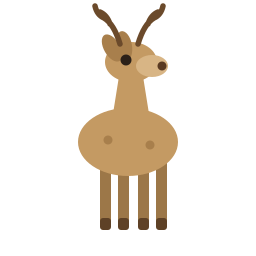
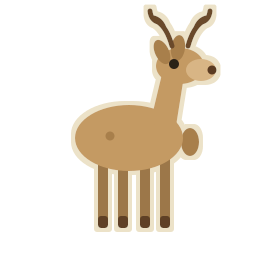
redesign: 米宝对齐参考图姿势（侧走熊猫/雪豹、坐姿水獭、立姿鹿）+ 木质浅描边

Changed region(s): [[0.25, 0.0, 0.875, 0.9062], [0.5625, 0.5312, 0.625, 0.5938], [0.4062, 0.5, 0.4375, 0.5625]]

diff --git a/tools/gen_meeples.js b/tools/gen_meeples.js
@@ -1,5 +1,7 @@
-// Generate 4 cartoon-animal meeple PNGs (transparent bg) from SVG via sharp.
-// Each animal gets a DISTINCT silhouette so they read clearly, not as teddy bears.
+// Generate 4 wooden-style cartoon-animal meeple PNGs (transparent bg) from SVG via sharp.
+// Poses match the user's reference photo: panda & snow-leopard side-walking,
+// otter upright-sitting, deer thin-legged standing. A thin wood-tone rim evokes
+// the laser-cut plywood edge of real board-game meeples.
 const sharp = require("sharp");
 const fs = require("fs");
 const path = require("path");
@@ -7,123 +9,143 @@ const path = require("path");
 const OUT = path.resolve("web/assets");
 const S = 256;
 
+// Thin cream plywood rim via dilation of the alpha channel -> clean outer outline only.
+const RIM = `<filter id="rim" x="-25%" y="-25%" width="150%" height="150%">
+  <feMorphology in="SourceAlpha" operator="dilate" radius="4" result="d"/>
+  <feFlood flood-color="#ECE2C8" result="c"/>
+  <feComposite in="c" in2="d" operator="in" result="r"/>
+  <feMerge><feMergeNode in="r"/><feMergeNode in="SourceGraphic"/></feMerge>
+</filter>`;
+
 function svg(inner) {
   return `<svg xmlns="http://www.w3.org/2000/svg" width="${S}" height="${S}" viewBox="0 0 256 256">
-    <g>${inner}</g></svg>`;
+    <defs>${RIM}</defs>
+    <g filter="url(#rim)">${inner}</g></svg>`;
 }
 
 const animals = {
-  // ===================== PANDA (chunky, unmistakable b/w) =====================
+  // ===================== PANDA — side-walking, b/w =====================
   panda: svg(`
-    <ellipse cx="100" cy="214" rx="22" ry="26" fill="#F4F3EE"/>
-    <ellipse cx="156" cy="214" rx="22" ry="26" fill="#F4F3EE"/>
-    <ellipse cx="128" cy="168" rx="60" ry="64" fill="#F4F3EE"/>
-    <ellipse cx="64" cy="158" rx="18" ry="42" fill="#F4F3EE" transform="rotate(18 64 158)"/>
-    <ellipse cx="192" cy="158" rx="18" ry="42" fill="#F4F3EE" transform="rotate(-18 192 158)"/>
-    <circle cx="128" cy="82" r="52" fill="#F4F3EE"/>
-    <circle cx="92" cy="42" r="20" fill="#2B2B2B"/>
-    <circle cx="164" cy="42" r="20" fill="#2B2B2B"/>
-    <ellipse cx="110" cy="84" rx="17" ry="20" fill="#2B2B2B" transform="rotate(-12 110 84)"/>
-    <ellipse cx="146" cy="84" rx="17" ry="20" fill="#2B2B2B" transform="rotate(12 146 84)"/>
-    <circle cx="110" cy="84" r="6" fill="#fff"/>
-    <circle cx="146" cy="84" r="6" fill="#fff"/>
-    <circle cx="110" cy="85" r="3.2" fill="#23201C"/>
-    <circle cx="146" cy="85" r="3.2" fill="#23201C"/>
-    <ellipse cx="128" cy="104" rx="9" ry="6.5" fill="#2B2B2B"/>
-    <path d="M128 110 q-10 12 -20 4 M128 110 q10 12 20 4" stroke="#2B2B2B" stroke-width="3" fill="none" stroke-linecap="round"/>
+    <!-- tail -->
+    <ellipse cx="200" cy="152" rx="15" ry="11" fill="#2B2B2B"/>
+    <!-- far back legs -->
+    <rect x="150" y="176" width="19" height="54" rx="9" fill="#1F1F1F"/>
+    <rect x="170" y="180" width="17" height="50" rx="8" fill="#1F1F1F"/>
+    <!-- body -->
+    <ellipse cx="128" cy="150" rx="68" ry="47" fill="#F4F3EE"/>
+    <!-- black shoulder saddle -->
+    <ellipse cx="142" cy="120" rx="54" ry="24" fill="#2B2B2B" transform="rotate(-8 142 120)"/>
+    <!-- near front legs -->
+    <rect x="84" y="178" width="20" height="54" rx="10" fill="#2B2B2B"/>
+    <rect x="104" y="182" width="17" height="50" rx="8" fill="#2B2B2B"/>
+    <!-- head -->
+    <circle cx="60" cy="118" r="45" fill="#F4F3EE"/>
+    <!-- ears -->
+    <circle cx="40" cy="80" r="17" fill="#2B2B2B"/>
+    <circle cx="80" cy="74" r="17" fill="#2B2B2B"/>
+    <!-- eye patch -->
+    <ellipse cx="54" cy="120" rx="16" ry="20" fill="#2B2B2B" transform="rotate(-10 54 120)"/>
+    <circle cx="54" cy="118" r="7" fill="#fff"/>
+    <circle cx="54" cy="119" r="3.6" fill="#23201C"/>
+    <!-- snout + nose -->
+    <ellipse cx="26" cy="128" rx="12" ry="9" fill="#F4F3EE"/>
+    <ellipse cx="18" cy="126" rx="6" ry="5" fill="#2B2B2B"/>
+    <path d="M18 131 q0 8 8 8" stroke="#2B2B2B" stroke-width="3" fill="none" stroke-linecap="round"/>
   `),
 
-  // ===================== MUSK DEER (standing deer: antlers + neck + thin legs) =====================
+  // ===================== MUSK DEER — standing, thin legs, antlers =====================
   musk: svg(`
     <!-- thin legs -->
-    <rect x="100" y="150" width="11" height="78" rx="5" fill="#9C7748"/>
-    <rect x="118" y="150" width="11" height="78" rx="5" fill="#9C7748"/>
-    <rect x="138" y="150" width="11" height="78" rx="5" fill="#9C7748"/>
-    <rect x="156" y="150" width="11" height="78" rx="5" fill="#9C7748"/>
-    <!-- hooves -->
-    <rect x="100" y="218" width="11" height="12" rx="3" fill="#5E4126"/>
-    <rect x="118" y="218" width="11" height="12" rx="3" fill="#5E4126"/>
-    <rect x="138" y="218" width="11" height="12" rx="3" fill="#5E4126"/>
-    <rect x="156" y="218" width="11" height="12" rx="3" fill="#5E4126"/>
+    <rect x="98" y="150" width="10" height="76" rx="5" fill="#9C7748"/>
+    <rect x="118" y="150" width="10" height="76" rx="5" fill="#9C7748"/>
+    <rect x="140" y="150" width="10" height="76" rx="5" fill="#9C7748"/>
+    <rect x="160" y="150" width="10" height="76" rx="5" fill="#9C7748"/>
+    <rect x="98" y="216" width="10" height="12" rx="3" fill="#5E4126"/>
+    <rect x="118" y="216" width="10" height="12" rx="3" fill="#5E4126"/>
+    <rect x="140" y="216" width="10" height="12" rx="3" fill="#5E4126"/>
+    <rect x="160" y="216" width="10" height="12" rx="3" fill="#5E4126"/>
+    <!-- tail -->
+    <ellipse cx="190" cy="142" rx="9" ry="14" fill="#A87F4C"/>
     <!-- body -->
-    <ellipse cx="128" cy="142" rx="50" ry="34" fill="#C49A63"/>
+    <ellipse cx="129" cy="138" rx="54" ry="33" fill="#C49A63"/>
     <!-- neck -->
-    <path d="M112 120 L120 70 L142 70 L150 120 Z" fill="#C49A63"/>
+    <path d="M150 124 L162 74 L184 76 L176 126 Z" fill="#C49A63"/>
     <!-- head + snout -->
-    <ellipse cx="131" cy="62" rx="26" ry="20" fill="#C49A63"/>
-    <ellipse cx="152" cy="66" rx="16" ry="11" fill="#D8B585"/>
+    <ellipse cx="180" cy="66" rx="24" ry="18" fill="#C49A63"/>
+    <ellipse cx="201" cy="70" rx="15" ry="11" fill="#D8B585"/>
     <!-- ears -->
-    <ellipse cx="112" cy="48" rx="8" ry="15" fill="#A87F4C" transform="rotate(-30 112 48)"/>
-    <ellipse cx="124" cy="46" rx="8" ry="15" fill="#A87F4C" transform="rotate(-10 124 46)"/>
+    <ellipse cx="162" cy="52" rx="7" ry="13" fill="#A87F4C" transform="rotate(-25 162 52)"/>
+    <ellipse cx="178" cy="48" rx="7" ry="13" fill="#A87F4C" transform="rotate(8 178 48)"/>
     <!-- antlers -->
-    <path d="M120 44 q-6 -20 -16 -26 M104 18 q-7 -3 -9 -12 M110 24 q-3 -9 -10 -12
-             M138 44 q6 -20 16 -26 M154 18 q7 -3 9 -12 M148 24 q3 -9 10 -12"
-          stroke="#6B4A2B" stroke-width="5.5" fill="none" stroke-linecap="round"/>
+    <path d="M172 46 q-5 -18 -14 -24 M158 22 q-7 -2 -8 -11 M164 28 q-3 -8 -10 -10
+             M188 46 q5 -18 14 -24 M202 22 q7 -2 8 -11 M196 28 q3 -8 10 -10"
+          stroke="#6B4A2B" stroke-width="5" fill="none" stroke-linecap="round"/>
     <!-- eye + nose -->
-    <circle cx="126" cy="60" r="5.5" fill="#2B2018"/>
-    <circle cx="162" cy="66" r="4.5" fill="#5A3A22"/>
-    <!-- flank spots -->
-    <circle cx="108" cy="140" r="4.5" fill="#A87F4C"/>
-    <circle cx="150" cy="145" r="4.5" fill="#A87F4C"/>
+    <circle cx="174" cy="64" r="5" fill="#2B2018"/>
+    <circle cx="212" cy="70" r="4.5" fill="#5A3A22"/>
+    <!-- flank spot -->
+    <circle cx="110" cy="136" r="4.5" fill="#A87F4C"/>
   `),
 
-  // ===================== SNOW LEOPARD (cat: pointed ears + long curling tail + rosettes) =====================
+  // ===================== SNOW LEOPARD — side-walking, long curled tail up, spots =====================
   snow: svg(`
-    <!-- long curling tail (signature) -->
-    <path d="M70 175 q-46 6 -42 -42 q4 -34 40 -28 q26 4 18 30 q-6 18 -22 12 q-12 -4 -6 -16"
-          fill="none" stroke="#E2E6EA" stroke-width="20" stroke-linecap="round"/>
-    <path d="M50 120 q-8 4 -6 14 M58 135 q-9 2 -10 12 M44 150 q-4 6 4 12"
-          stroke="#7A8590" stroke-width="3" fill="none"/>
+    <!-- long curling tail (signature), raised at back -->
+    <path d="M188 168 q52 -8 46 -56 q-4 -34 -40 -26 q-26 6 -16 32 q8 18 26 10 q12 -6 4 -18"
+          fill="none" stroke="#CDC6DA" stroke-width="22" stroke-linecap="round"/>
+    <path d="M214 96 q6 6 2 16 M206 120 q9 1 11 11 M196 140 q9 -1 12 9"
+          stroke="#7A7088" stroke-width="3" fill="none"/>
+    <!-- far legs -->
+    <rect x="150" y="178" width="18" height="52" rx="8" fill="#B7AFC8"/>
+    <rect x="168" y="182" width="16" height="48" rx="8" fill="#B7AFC8"/>
     <!-- body -->
-    <ellipse cx="132" cy="170" rx="56" ry="58" fill="#E2E6EA"/>
-    <!-- front paws -->
-    <ellipse cx="108" cy="216" rx="16" ry="14" fill="#E2E6EA"/>
-    <ellipse cx="156" cy="216" rx="16" ry="14" fill="#E2E6EA"/>
+    <ellipse cx="126" cy="150" rx="64" ry="46" fill="#CDC6DA"/>
+    <!-- near legs -->
+    <rect x="78" y="180" width="19" height="52" rx="9" fill="#B7AFC8"/>
+    <rect x="98" y="184" width="16" height="48" rx="8" fill="#B7AFC8"/>
     <!-- head -->
-    <circle cx="132" cy="86" r="46" fill="#E2E6EA"/>
+    <circle cx="54" cy="120" r="44" fill="#CDC6DA"/>
     <!-- pointed ears -->
-    <path d="M98 56 L92 24 L120 44 Z" fill="#CBD2D8"/>
-    <path d="M166 56 L172 24 L144 44 Z" fill="#CBD2D8"/>
-    <!-- eyes -->
-    <circle cx="116" cy="86" r="6.5" fill="#23201C"/>
-    <circle cx="148" cy="86" r="6.5" fill="#23201C"/>
+    <path d="M30 92 L24 58 L54 80 Z" fill="#B3ABBF"/>
+    <path d="M78 92 L84 58 L54 80 Z" fill="#B3ABBF"/>
+    <!-- eye -->
+    <ellipse cx="50" cy="120" rx="8" ry="9" fill="#3A3448"/>
+    <circle cx="50" cy="119" r="3.2" fill="#0E0B14"/>
     <!-- muzzle -->
-    <ellipse cx="132" cy="106" rx="18" ry="13" fill="#F4F6F8"/>
-    <path d="M126 104 l6 6 l6 -6" stroke="#5A6470" stroke-width="3" fill="none" stroke-linecap="round" stroke-linejoin="round"/>
-    <ellipse cx="132" cy="110" rx="5" ry="3.5" fill="#5A6470"/>
+    <ellipse cx="22" cy="130" rx="14" ry="10" fill="#EAE6F0"/>
+    <ellipse cx="14" cy="128" rx="5" ry="4" fill="#6E6478"/>
     <!-- rosette spots -->
-    ${[[92,150],[150,150],[110,185],[156,188],[132,168],[100,200],[160,202]]
-      .map(([x,y])=>`<circle cx="${x}" cy="${y}" r="7" fill="none" stroke="#7A8590" stroke-width="3.2"/>
-        <circle cx="${x}" cy="${y}" r="2" fill="#7A8590"/>`).join("")}
+    ${[[100,140],[150,142],[118,176],[158,178],[134,158],[104,190],[160,192]]
+      .map(([x,y])=>`<circle cx="${x}" cy="${y}" r="7" fill="none" stroke="#7A7088" stroke-width="3"/>
+        <circle cx="${x}" cy="${y}" r="2" fill="#7A7088"/>`).join("")}
   `),
 
-  // ===================== OTTER (streamlined body + long tail + whiskers) =====================
+  // ===================== OTTER — upright sitting, raised body, round ears, light belly =====================
   otter: svg(`
-    <!-- long tail -->
-    <path d="M76 180 q-44 18 -40 70 q3 26 28 22 q20 -3 10 -22 q-8 -14 -22 -8 q-10 4 -4 -10"
-          fill="none" stroke="#8A5A33" stroke-width="18" stroke-linecap="round"/>
-    <!-- body (leaning, streamlined) -->
-    <ellipse cx="134" cy="166" rx="54" ry="62" fill="#8A5A33"/>
-    <!-- belly -->
-    <ellipse cx="134" cy="178" rx="32" ry="42" fill="#C99A6A"/>
+    <!-- tail along ground -->
+    <path d="M150 200 q60 6 78 -18 q12 -16 -6 -24 q-16 -6 -20 10 q-4 14 -22 18 q-18 4 -30 2"
+          fill="none" stroke="#7E93A6" stroke-width="20" stroke-linecap="round"/>
+    <!-- sitting body (pear, wider at bottom) -->
+    <path d="M128 70 Q176 96 176 156 Q176 222 128 222 Q80 222 80 156 Q80 96 128 70 Z" fill="#7E93A6"/>
+    <!-- light belly -->
+    <path d="M128 110 Q156 130 154 170 Q150 210 128 210 Q106 210 102 170 Q100 130 128 110 Z" fill="#C9D6DE"/>
     <!-- head -->
-    <circle cx="134" cy="80" r="46" fill="#8A5A33"/>
+    <circle cx="128" cy="78" r="46" fill="#7E93A6"/>
     <!-- small round ears -->
-    <circle cx="100" cy="50" r="12" fill="#6F4527"/>
-    <circle cx="168" cy="50" r="12" fill="#6F4527"/>
+    <circle cx="92" cy="48" r="13" fill="#6B7F92"/>
+    <circle cx="164" cy="48" r="13" fill="#6B7F92"/>
     <!-- eyes -->
-    <circle cx="118" cy="80" r="6.5" fill="#23201C"/>
-    <circle cx="150" cy="80" r="6.5" fill="#23201C"/>
+    <circle cx="112" cy="78" r="6.5" fill="#23201C"/>
+    <circle cx="144" cy="78" r="6.5" fill="#23201C"/>
     <!-- muzzle -->
-    <ellipse cx="134" cy="104" rx="22" ry="16" fill="#D8B088"/>
-    <ellipse cx="134" cy="100" rx="6" ry="4.5" fill="#3A2414"/>
-    <path d="M134 104 v7" stroke="#3A2414" stroke-width="2.5" stroke-linecap="round"/>
+    <ellipse cx="128" cy="100" rx="22" ry="15" fill="#D8E2E8"/>
+    <ellipse cx="128" cy="96" rx="6" ry="4.5" fill="#3A2414"/>
+    <path d="M128 100 v8" stroke="#3A2414" stroke-width="2.5" stroke-linecap="round"/>
     <!-- whiskers -->
-    <path d="M112 102 h-24 M114 108 h-22 M156 102 h24 M154 108 h22"
+    <path d="M106 98 h-26 M108 104 h-24 M150 98 h26 M148 104 h24"
           stroke="#EAD9C2" stroke-width="1.8" stroke-linecap="round"/>
-    <!-- front paws -->
-    <ellipse cx="112" cy="214" rx="15" ry="13" fill="#6F4527"/>
-    <ellipse cx="156" cy="214" rx="15" ry="13" fill="#6F4527"/>
+    <!-- front paws at chest -->
+    <ellipse cx="108" cy="158" rx="14" ry="12" fill="#6B7F92"/>
+    <ellipse cx="148" cy="158" rx="14" ry="12" fill="#6B7F92"/>
   `),
 };
 
